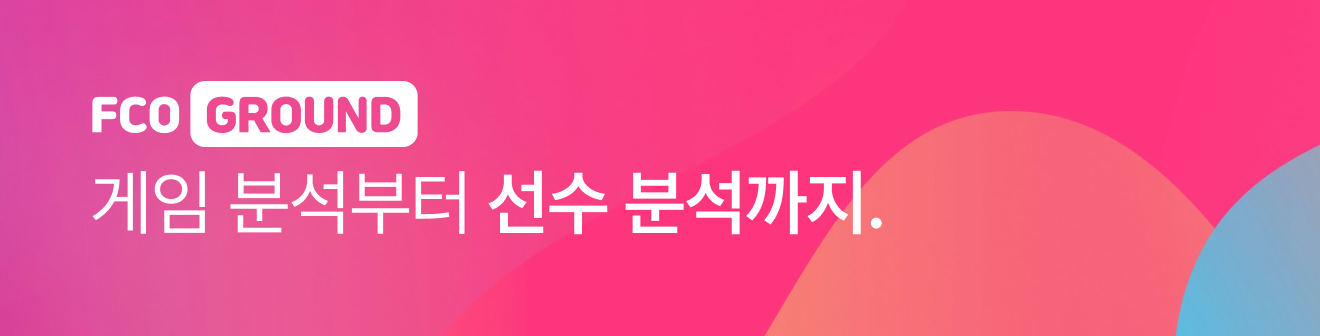
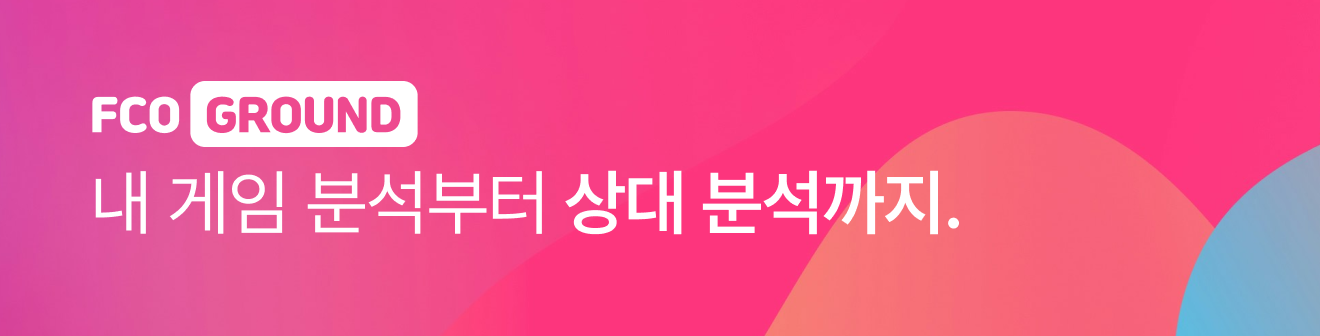
feat: OG 이미지 및 메인 배너 이미지 업데이트 — 27.8

Changed region(s): [[0.0621, 0.506, 0.7455, 0.7143]]

diff --git a/apps/fconline/src/lib/appVersion.ts b/apps/fconline/src/lib/appVersion.ts
@@ -3,6 +3,7 @@ import pkg from '../../package.json'
 export const APP_VERSION = pkg.version
 
 export const RELEASE_PUBLISHED_AT_BY_VERSION: Record<string, string> = {
+  '27.8': '2026-05-07T06:30:00+09:00',
   '27.7': '2026-05-07T06:00:00+09:00',
   '27.6': '2026-05-07T05:30:00+09:00',
   '27.5': '2026-05-06T22:00:00+09:00',
@@ -60,6 +61,9 @@ export const RELEASE_PUBLISHED_AT_BY_VERSION: Record<string, string> = {
 }
 
 export const RELEASE_NOTES_BY_VERSION: Record<string, string[]> = {
+  '27.8': [
+    'OG 이미지와 메인 배너 이미지를 업데이트했습니다.',
+  ],
   '27.7': [
     '라이트 모드 스플래시 화면의 로고 색상을 홈 화면 로고와 동일하게 수정했습니다.',
   ],
